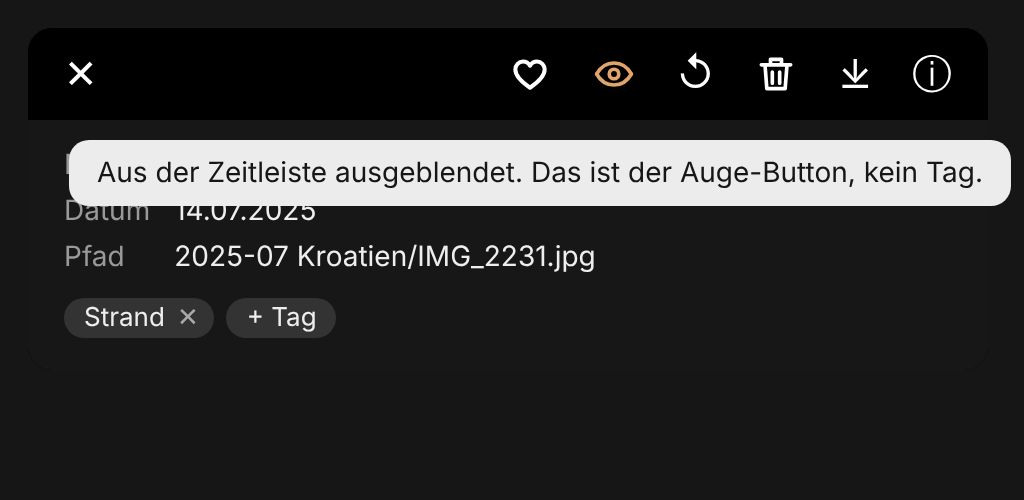
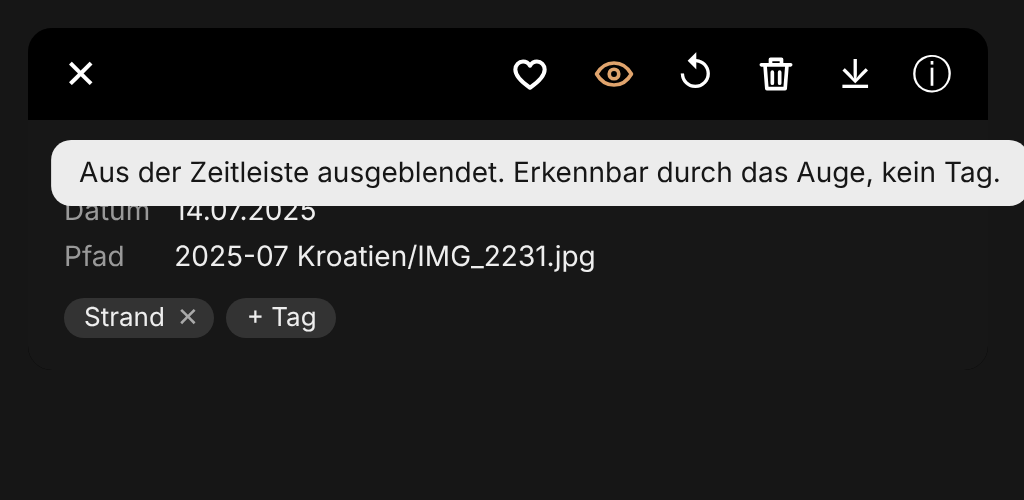
Phase 20 plan: new wording of the hidden notice
Claude-Session: https://claude.ai/code/session_01CCduS8nDfPj7sAxnWUWD4q

Changed region(s): [[0.0312, 0.27, 1.0, 0.42]]

diff --git a/docs/mocks/hidden/07-tag-box-hidden-de.html b/docs/mocks/hidden/07-tag-box-hidden-de.html
@@ -46,4 +46,4 @@ body { font: 14px -apple-system, BlinkMacSystemFont, "Segoe UI", sans-serif; col
 .chip.acts.tablet { gap: 4px; }
 .chip.acts.tablet button { padding: 0 6px; }
 .shotbox { display: inline-block; position: relative; padding-bottom: 36px; }
-</style></head><body><div class="shot"><div class="dark" style="width:480px"><div class="lb-bar"><button class="icon">✕</button><span class="lb-title"></span><button class="icon fav-lb"><svg viewBox="0 0 24 24" width="1em" height="1em" style="fill:none" stroke="currentColor" stroke-width="2" stroke-linecap="round" stroke-linejoin="round"><path stroke-width="2.2" d="M12 19.5C8 16.8 4 13.6 4 9.6 4 7.1 5.9 5.2 8.2 5.2c1.6 0 3 .9 3.8 2.3.8-1.4 2.2-2.3 3.8-2.3 2.3 0 4.2 1.9 4.2 4.4 0 4-4 7.2-8 9.9z"/></svg></button><button class="icon hid-lb on"><svg viewBox="0 0 24 24" width="1em" height="1em" style="fill:none" stroke="currentColor" stroke-width="2" stroke-linecap="round" stroke-linejoin="round"><path d="M2.5 12C5 7.6 8.3 6 12 6s7 1.6 9.5 6c-2.5 4.4-5.8 6-9.5 6s-7-1.6-9.5-6z"/><circle cx="12" cy="12" r="2.6"/></svg></button><button class="icon">↺</button><button class="icon"><svg viewBox="0 0 24 24" width="1em" height="1em" style="fill:none" stroke="currentColor" stroke-width="2" stroke-linecap="round" stroke-linejoin="round"><path d="M4 7h16M9 7V4h6v3M6 7l1 13h10l1-13M10 11v6M14 11v6"/></svg></button><button class="icon">⤓</button><button class="icon">ⓘ</button></div><div class="lb-panel"><dl><dt>Name</dt><dd>IMG_2231.jpg</dd><dt>Datum</dt><dd>14.07.2025</dd><dt>Pfad</dt><dd>2025-07 Kroatien/IMG_2231.jpg</dd></dl><div class="tags" style="margin-top:12px"><span class="own"><button>Strand</button><button class="x">✕</button></span><button>+ Tag</button></div></div></div><div class="toast" style="left:256px;transform:translateX(-50%)">Aus der Zeitleiste ausgeblendet. Das ist der Auge-Button, kein Tag.</div></div></body></html>
+</style></head><body><div class="shot"><div class="dark" style="width:480px"><div class="lb-bar"><button class="icon">✕</button><span class="lb-title"></span><button class="icon fav-lb"><svg viewBox="0 0 24 24" width="1em" height="1em" style="fill:none" stroke="currentColor" stroke-width="2" stroke-linecap="round" stroke-linejoin="round"><path stroke-width="2.2" d="M12 19.5C8 16.8 4 13.6 4 9.6 4 7.1 5.9 5.2 8.2 5.2c1.6 0 3 .9 3.8 2.3.8-1.4 2.2-2.3 3.8-2.3 2.3 0 4.2 1.9 4.2 4.4 0 4-4 7.2-8 9.9z"/></svg></button><button class="icon hid-lb on"><svg viewBox="0 0 24 24" width="1em" height="1em" style="fill:none" stroke="currentColor" stroke-width="2" stroke-linecap="round" stroke-linejoin="round"><path d="M2.5 12C5 7.6 8.3 6 12 6s7 1.6 9.5 6c-2.5 4.4-5.8 6-9.5 6s-7-1.6-9.5-6z"/><circle cx="12" cy="12" r="2.6"/></svg></button><button class="icon">↺</button><button class="icon"><svg viewBox="0 0 24 24" width="1em" height="1em" style="fill:none" stroke="currentColor" stroke-width="2" stroke-linecap="round" stroke-linejoin="round"><path d="M4 7h16M9 7V4h6v3M6 7l1 13h10l1-13M10 11v6M14 11v6"/></svg></button><button class="icon">⤓</button><button class="icon">ⓘ</button></div><div class="lb-panel"><dl><dt>Name</dt><dd>IMG_2231.jpg</dd><dt>Datum</dt><dd>14.07.2025</dd><dt>Pfad</dt><dd>2025-07 Kroatien/IMG_2231.jpg</dd></dl><div class="tags" style="margin-top:12px"><span class="own"><button>Strand</button><button class="x">✕</button></span><button>+ Tag</button></div></div></div><div class="toast" style="left:256px;transform:translateX(-50%)">Aus der Zeitleiste ausgeblendet. Erkennbar durch das Auge, kein Tag.</div></div></body></html>

diff --git a/docs/mocks/hidden/07-tag-box-hidden-en.html b/docs/mocks/hidden/07-tag-box-hidden-en.html
@@ -46,4 +46,4 @@ body { font: 14px -apple-system, BlinkMacSystemFont, "Segoe UI", sans-serif; col
 .chip.acts.tablet { gap: 4px; }
 .chip.acts.tablet button { padding: 0 6px; }
 .shotbox { display: inline-block; position: relative; padding-bottom: 36px; }
-</style></head><body><div class="shot"><div class="dark" style="width:480px"><div class="lb-bar"><button class="icon">✕</button><span class="lb-title"></span><button class="icon fav-lb"><svg viewBox="0 0 24 24" width="1em" height="1em" style="fill:none" stroke="currentColor" stroke-width="2" stroke-linecap="round" stroke-linejoin="round"><path stroke-width="2.2" d="M12 19.5C8 16.8 4 13.6 4 9.6 4 7.1 5.9 5.2 8.2 5.2c1.6 0 3 .9 3.8 2.3.8-1.4 2.2-2.3 3.8-2.3 2.3 0 4.2 1.9 4.2 4.4 0 4-4 7.2-8 9.9z"/></svg></button><button class="icon hid-lb on"><svg viewBox="0 0 24 24" width="1em" height="1em" style="fill:none" stroke="currentColor" stroke-width="2" stroke-linecap="round" stroke-linejoin="round"><path d="M2.5 12C5 7.6 8.3 6 12 6s7 1.6 9.5 6c-2.5 4.4-5.8 6-9.5 6s-7-1.6-9.5-6z"/><circle cx="12" cy="12" r="2.6"/></svg></button><button class="icon">↺</button><button class="icon"><svg viewBox="0 0 24 24" width="1em" height="1em" style="fill:none" stroke="currentColor" stroke-width="2" stroke-linecap="round" stroke-linejoin="round"><path d="M4 7h16M9 7V4h6v3M6 7l1 13h10l1-13M10 11v6M14 11v6"/></svg></button><button class="icon">⤓</button><button class="icon">ⓘ</button></div><div class="lb-panel"><dl><dt>Name</dt><dd>IMG_2231.jpg</dd><dt>Date</dt><dd>Jul 14, 2025</dd><dt>Path</dt><dd>2025-07 Kroatien/IMG_2231.jpg</dd></dl><div class="tags" style="margin-top:12px"><span class="own"><button>Strand</button><button class="x">✕</button></span><button>+ Tag</button></div></div></div><div class="toast" style="left:256px;transform:translateX(-50%)">Hidden from the timeline. That is the eye button, not a tag.</div></div></body></html>
+</style></head><body><div class="shot"><div class="dark" style="width:480px"><div class="lb-bar"><button class="icon">✕</button><span class="lb-title"></span><button class="icon fav-lb"><svg viewBox="0 0 24 24" width="1em" height="1em" style="fill:none" stroke="currentColor" stroke-width="2" stroke-linecap="round" stroke-linejoin="round"><path stroke-width="2.2" d="M12 19.5C8 16.8 4 13.6 4 9.6 4 7.1 5.9 5.2 8.2 5.2c1.6 0 3 .9 3.8 2.3.8-1.4 2.2-2.3 3.8-2.3 2.3 0 4.2 1.9 4.2 4.4 0 4-4 7.2-8 9.9z"/></svg></button><button class="icon hid-lb on"><svg viewBox="0 0 24 24" width="1em" height="1em" style="fill:none" stroke="currentColor" stroke-width="2" stroke-linecap="round" stroke-linejoin="round"><path d="M2.5 12C5 7.6 8.3 6 12 6s7 1.6 9.5 6c-2.5 4.4-5.8 6-9.5 6s-7-1.6-9.5-6z"/><circle cx="12" cy="12" r="2.6"/></svg></button><button class="icon">↺</button><button class="icon"><svg viewBox="0 0 24 24" width="1em" height="1em" style="fill:none" stroke="currentColor" stroke-width="2" stroke-linecap="round" stroke-linejoin="round"><path d="M4 7h16M9 7V4h6v3M6 7l1 13h10l1-13M10 11v6M14 11v6"/></svg></button><button class="icon">⤓</button><button class="icon">ⓘ</button></div><div class="lb-panel"><dl><dt>Name</dt><dd>IMG_2231.jpg</dd><dt>Date</dt><dd>Jul 14, 2025</dd><dt>Path</dt><dd>2025-07 Kroatien/IMG_2231.jpg</dd></dl><div class="tags" style="margin-top:12px"><span class="own"><button>Strand</button><button class="x">✕</button></span><button>+ Tag</button></div></div></div><div class="toast" style="left:256px;transform:translateX(-50%)">Hidden from the timeline. Marked through the eye button, not a tag.</div></div></body></html>

diff --git a/docs/mocks/hidden/build.py b/docs/mocks/hidden/build.py
@@ -85,13 +85,13 @@ L = {
             hide_tip="Hide from timeline (h)", show_tip="Show in timeline (h)", sel_tip="Hide from timeline",
             menu_hide="Hide folder from timeline", menu_show="Show folder in timeline", folder="Folders",
             chip="Hidden", fchip_tip="Hide folder from timeline", ftip_on="Show folder in timeline",
-            note="Hidden from the timeline. That is the eye button, not a tag.", tag="Add tag…", typed_tag="versteckt",
+            note="Hidden from the timeline. Marked through the eye button, not a tag.", tag="Add tag…", typed_tag="versteckt",
             fnote="Favorite set. Favorites show as a heart, not as a tag."),
  "de": dict(typed="ausg", head="Ausgeblendet", item="Ausgeblendet", rtext="Erkannter Text", shortcut="Tastenkürzel: text:ausg eingeben",
             hide_tip="Aus der Zeitleiste ausblenden (h)", show_tip="In der Zeitleiste anzeigen (h)", sel_tip="Aus der Zeitleiste ausblenden",
             menu_hide="Ordner aus der Zeitleiste ausblenden", menu_show="Ordner in der Zeitleiste anzeigen", folder="Ordner",
             chip="Ausgeblendet", fchip_tip="Ordner aus der Zeitleiste ausblenden", ftip_on="Ordner in der Zeitleiste anzeigen",
-            note="Aus der Zeitleiste ausgeblendet. Das ist der Auge-Button, kein Tag.", tag="Tag hinzufügen…", typed_tag="versteckt",
+            note="Aus der Zeitleiste ausgeblendet. Erkennbar durch das Auge, kein Tag.", tag="Tag hinzufügen…", typed_tag="versteckt",
             fnote="Favorit gesetzt. Favoriten erscheinen als Herz, nicht als Tag."),
 }
 

diff --git a/docs/phase20.md b/docs/phase20.md
@@ -86,7 +86,7 @@ says so. New: the app's normal `toast()` (the dark-on-light pill under the top b
 
 | Option | Favorite, English | Favorite, German | Hidden, English | Hidden, German |
 |---|---|---|---|---|
-| **A (mocked)** | Favorite set. Favorites show as a heart, not as a tag. | Favorit gesetzt. Favoriten erscheinen als Herz, nicht als Tag. | Hidden from the timeline. That is the eye button, not a tag. | Aus der Zeitleiste ausgeblendet. Das ist der Auge-Button, kein Tag. |
+| **A (mocked)** | Favorite set. Favorites show as a heart, not as a tag. | Favorit gesetzt. Favoriten erscheinen als Herz, nicht als Tag. | Hidden from the timeline. Marked through the eye button, not a tag. | Aus der Zeitleiste ausgeblendet. Erkennbar durch das Auge, kein Tag. |
 | B | That is the heart: the photo is a favorite now, no tag is added. | Das ist das Herz: Das Foto ist jetzt ein Favorit, es wird kein Tag angelegt. | Hidden from the timeline, no tag is added. The eye button does the same. | Aus der Zeitleiste ausgeblendet, es wird kein Tag angelegt. Das macht auch der Auge-Button. |
 | C (shortest) | Favorite set (no tag). | Favorit gesetzt (kein Tag). | Hidden (no tag). | Ausgeblendet (kein Tag). |
 
@@ -149,7 +149,7 @@ Everything list-like in the grid goes through `browse::Snapshot::query`
 | `hidden.move_out` | These photos come from a hidden folder: they will show in the timeline again. | Diese Fotos stammen aus einem ausgeblendeten Ordner: Sie erscheinen wieder in der Zeitleiste. | move dialog |
 | `export.hidden_left_out` (one / other) | 1 hidden photo left out / {n} hidden photos left out | 1 ausgeblendetes Foto ausgelassen / {n} ausgeblendete Fotos ausgelassen | export dialog of a tag |
 | `tags.reserved_fav` | Favorite set. Favorites show as a heart, not as a tag. | Favorit gesetzt. Favoriten erscheinen als Herz, nicht als Tag. | toast after typing a favorite word (option A) |
-| `tags.reserved_hidden` | Hidden from the timeline. That is the eye button, not a tag. | Aus der Zeitleiste ausgeblendet. Das ist der Auge-Button, kein Tag. | toast after typing a hidden word (option A) |
+| `tags.reserved_hidden` | Hidden from the timeline. Marked through the eye button, not a tag. | Aus der Zeitleiste ausgeblendet. Erkennbar durch das Auge, kein Tag. | toast after typing a hidden word (option A) |
 | `transfer.hidden` | Hidden ({n}) | Ausgeblendet ({n}) | Carry over data, check box, not ticked by default |
 | `transfer.hidden_hint` | Not ticked by default: hiding is decided per drive. | Standardmäßig nicht angehakt: Ausblenden wird pro Laufwerk entschieden. | tip of that box |
 
